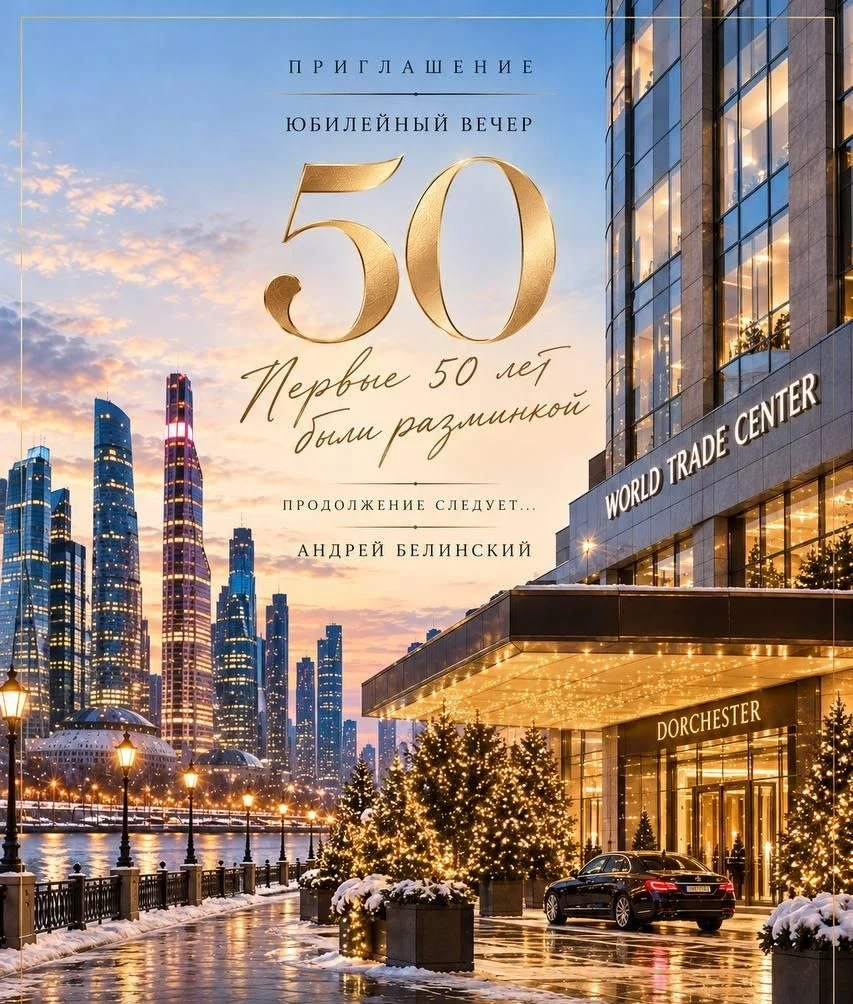
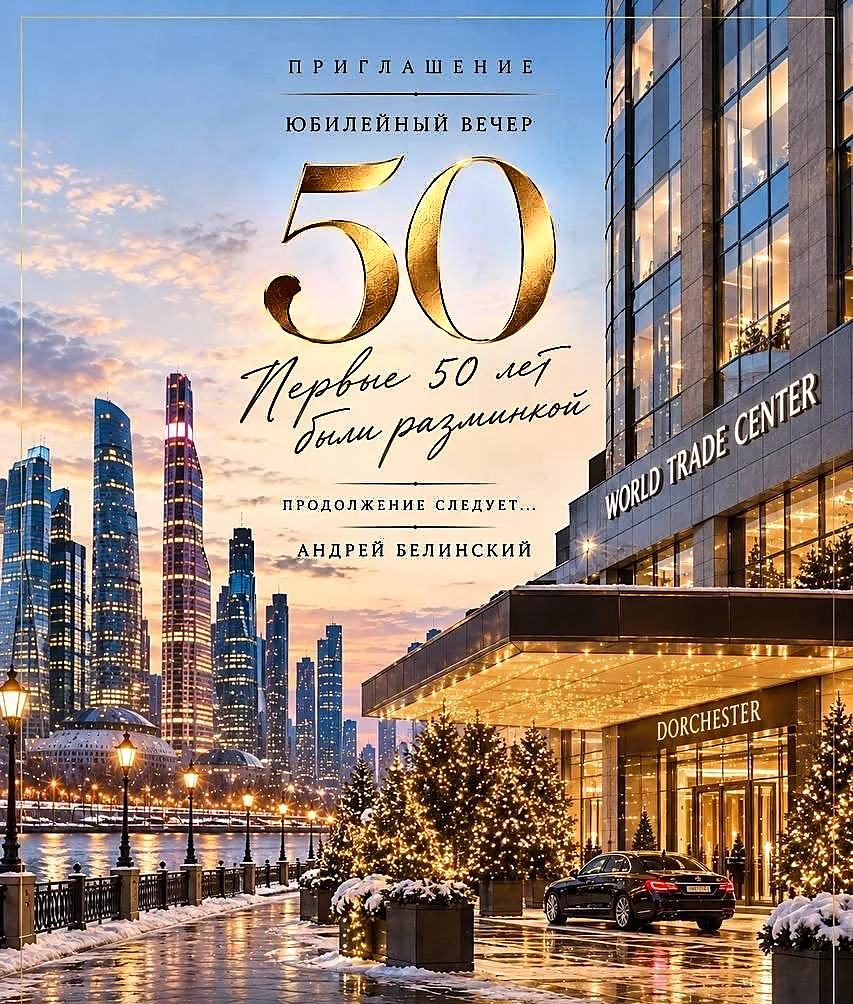
v10: rsvp screens like sample, cover ratio fix, stronger cover text

diff --git a/inv-a50-v8-8j2lv6/index.html b/inv-a50-v8-8j2lv6/index.html
@@ -51,7 +51,7 @@ body.lock #site{visibility:hidden}
 .div::after{transform:scaleX(-1)}
 .div i{width:5px;height:5px;transform:rotate(45deg);background:currentColor}
 .ico{width:34px;height:34px;fill:none;stroke:currentColor;stroke-width:1.3;stroke-linecap:round;stroke-linejoin:round}
-.coverimg{display:block;width:100%;height:auto;aspect-ratio:2/3;background:#2a2036}
+.coverimg{display:block;width:100%;height:auto;aspect-ratio:853/1004;background:#2a2036}
 .sep1{padding:18px 16px 8px}
 .sep1 .btns{display:grid;gap:12px}
 .info{display:grid;grid-template-columns:1fr 1fr 1.15fr;border:1px solid var(--line);background:rgba(18,12,8,.58);-webkit-backdrop-filter:blur(8px);backdrop-filter:blur(8px);padding:14px 4px;margin-bottom:16px}
@@ -184,6 +184,43 @@ p,.d,.n,.t,small,b{overflow-wrap:break-word;text-wrap:pretty}
 .cta p{font-size:22px}
 .cta .note{font-size:23px;line-height:1.35;margin:18px 0 0}
 @media(max-width:359px){body{font-size:20px}.greet p{font-size:21px}.greet h2{font-size:36px}.info b{font-size:22px}.cta .h1{font-size:34px}.card{padding:22px 14px}}
+/* v10: экраны ответа как в образце */
+.rs .rsbg{position:fixed;inset:0;background:linear-gradient(180deg,rgba(10,6,3,.82) 0%,rgba(10,6,3,.6) 45%,rgba(10,6,3,.15) 75%,rgba(10,6,3,.35) 100%),url(img/rsvp-bg.webp) center bottom/cover no-repeat;z-index:0}
+.rs .ovcol{position:relative;z-index:1}
+.rs .ovtop{height:auto;padding:14px 0 0;position:relative;margin-bottom:-28px;z-index:3}
+.rs .back{border-radius:30px;height:48px;padding:0 18px 0 12px;font-weight:600;font-size:19px;letter-spacing:.02em;text-transform:none;border-color:#C9A46A;background:rgba(18,12,8,.55)}
+.rs .panel{background:transparent;border:1px solid rgba(224,190,128,.75);box-shadow:inset 0 0 0 4px rgba(224,190,128,.08);-webkit-backdrop-filter:none;backdrop-filter:none;padding:22px 14px 26px;text-align:center;margin-top:0}
+.rk{font-weight:600;font-size:13px;letter-spacing:.32em;text-transform:uppercase;color:#E8D2A6;padding-left:84px;min-height:24px}
+.rdiv{display:flex;align-items:center;justify-content:center;gap:8px;color:#E0BE80;margin:8px auto}
+.rdiv::before,.rdiv::after{content:"";height:1px;width:90px;background:linear-gradient(90deg,transparent,currentColor)}
+.rdiv::after{transform:scaleX(-1)}.rdiv i{width:6px;height:6px;transform:rotate(45deg);background:currentColor}
+.rt{font-family:"Marck Script",cursive;font-weight:400;font-size:42px;line-height:1.12;margin:6px 0 4px;background:linear-gradient(180deg,#F7DFA8,#D9A960 60%,#F2D196);-webkit-background-clip:text;background-clip:text;-webkit-text-fill-color:transparent;color:transparent}
+.rsub{font-size:21px;line-height:1.35;color:#F6EAD2;margin:4px 0 14px}
+.rsm{font-size:17px;line-height:1.35;color:#E6D5B5;margin:-4px 0 14px}
+.rs .opts{gap:12px;max-width:340px;margin:0 auto}
+.opt2{display:grid;grid-template-columns:56px 1fr 22px;align-items:center;width:100%;min-height:72px;padding:8px 14px 8px 8px;border-radius:12px;border:1px solid rgba(224,190,128,.85);background:rgba(16,10,5,.62);color:#F6EAD2;text-align:left;cursor:pointer;-webkit-appearance:none;appearance:none}
+.opt2 .oi{display:flex;align-items:center;justify-content:center;height:46px;border-right:1px solid rgba(224,190,128,.5);margin-right:14px}
+.opt2 .oi svg{width:34px;height:34px;fill:none;stroke:#E0BE80;stroke-width:1.4;stroke-linecap:round;stroke-linejoin:round}
+.opt2 .ol{font-weight:600;font-size:18px;letter-spacing:.14em;text-transform:uppercase;line-height:1.3}
+.opt2 .chev{width:20px;height:20px;fill:none;stroke:#E0BE80;stroke-width:1.8}
+.opt2.gold{background:linear-gradient(180deg,#F1D396,#C99B55);color:#2a1b0c;border-color:#F3D9A2}
+.opt2.gold .oi svg,.opt2.gold .chev{stroke:#2a1b0c}.opt2.gold .oi{border-color:rgba(42,27,12,.35)}
+.opt2:active,.opt2.on{box-shadow:0 0 0 2px #F3D9A2}
+.rs .drinks{grid-template-columns:1fr 1fr;gap:8px;margin:0 0 16px}
+.rs .dr{display:grid;grid-template-columns:22px 40px 1fr;gap:6px;align-items:center;min-height:76px;padding:4px 8px;border-radius:12px;border:1px solid rgba(224,190,128,.8);background:rgba(16,10,5,.62);font-weight:600;font-size:14px;letter-spacing:.08em;text-transform:uppercase;line-height:1.25;color:#F6EAD2}
+.rs .dr img{width:40px;height:54px;object-fit:contain}
+.rs .dr .bx{width:22px;height:22px;border-radius:6px;border-color:#E0BE80}
+.rs .dr .dl{overflow-wrap:anywhere}
+.btn.pill{border-radius:30px;max-width:260px;margin:0 auto;height:54px}
+.routepill{display:block;margin:22px auto 4px;height:58px;padding:0 28px;border-radius:30px;border:1px solid #C9A46A;background:rgba(18,12,8,.6);color:#F1DDB0;font-weight:500;font-size:21px;cursor:pointer}
+.rs .fld span.lab{text-align:left}.rs .sum{text-align:left;background:rgba(16,10,5,.78);border-radius:10px;font-size:18px}.rs .stack{max-width:340px;margin:18px auto 0}
+.rs input[type=text]{border-radius:10px;font-size:19px}
+.rs .panel{padding:22px 10px 24px}
+.rs .dr{position:relative;grid-template-columns:34px 1fr;gap:8px;padding:6px 8px 6px 6px;font-size:17px;letter-spacing:0;text-transform:none;line-height:1.2}
+.rs .dr img{width:34px;height:50px}
+.rs .dr .bx{position:absolute;top:6px;right:6px;width:18px;height:18px;border-radius:5px}
+.rs .dr .dl{overflow-wrap:normal;word-break:normal;hyphens:none;padding-right:16px}
+@media(max-width:374px){.rt{font-size:36px}.rs .dr{font-size:16px}.opt2 .ol{font-size:16px;letter-spacing:.1em}.rk{padding-left:80px;font-size:12px;letter-spacing:.22em}}
 </style>
 </head>
 <body>
@@ -291,40 +328,33 @@ p,.d,.n,.t,small,b{overflow-wrap:break-word;text-wrap:pretty}
 </main>
 
 <!-- ответ на приглашение -->
-<div class="ov" id="rsvp" hidden>
+<div class="ov rs" id="rsvp" hidden>
+  <div class="rsbg"></div>
   <div class="ovcol">
     <div class="ovtop"><button class="back" type="button" id="backBtn"><svg viewBox="0 0 24 24"><path d="M15 5l-7 7 7 7"/></svg>Назад</button></div>
     <div class="panel">
       <section class="step" id="s-att">
-        <div class="lab">Ваш ответ</div>
-        <div class="h1">Вы придёте?</div>
-        <p class="lead">Выберите подходящий вариант.</p>
+        <div class="rk">Юбилей 50 лет</div><div class="rdiv"><i></i></div><h3 class="rt">Ну что,<br>увидимся 21&nbsp;декабря?</h3><div class="rdiv"><i></i></div><p class="rsub">Буду очень рад видеть вас<br>на моём юбилее!</p>
         <div class="opts">
-          <button class="opt" type="button" data-att="yes">Да, приду</button>
-          <button class="opt" type="button" data-att="maybe">Пока не знаю</button>
-          <button class="opt" type="button" data-att="no">К сожалению, не смогу</button>
+          <button class="opt2 gold" type="button" data-att="yes"><span class="oi"><svg viewBox="0 0 32 32"><path d="M8 4h6l-.5 8a2.5 2.5 0 0 1-5 0zM18 4h6l-.5 8a2.5 2.5 0 0 1-5 0zM11 14.5V26M21 14.5V26M8 27h6M18 27h6"/></svg></span><span class="ol">Конечно,<br>буду!</span><svg class="chev" viewBox="0 0 24 24"><path d="M9 5l7 7-7 7"/></svg></button>
+          <button class="opt2" type="button" data-att="maybe"><span class="oi"><svg viewBox="0 0 32 32"><circle cx="16" cy="16" r="12"/><path d="M12.5 12.5a3.5 3.5 0 1 1 5 3.2c-1 .5-1.5 1.2-1.5 2.3v.5M16 22.5v.5"/></svg></span><span class="ol">Пока<br>под вопросом</span><svg class="chev" viewBox="0 0 24 24"><path d="M9 5l7 7-7 7"/></svg></button>
+          <button class="opt2" type="button" data-att="no"><span class="oi"><svg viewBox="0 0 32 32"><circle cx="16" cy="16" r="12"/><path d="M11.5 11.5l9 9M20.5 11.5l-9 9"/></svg></span><span class="ol">К сожалению,<br>не смогу</span><svg class="chev" viewBox="0 0 24 24"><path d="M9 5l7 7-7 7"/></svg></button>
         </div>
       </section>
       <section class="step" id="s-count">
-        <div class="lab">Гости</div>
-        <div class="h1">Сколько вас будет?</div>
-        <p class="lead">Выберите подходящий вариант.</p>
+        <div class="rk">Юбилей 50 лет</div><div class="rdiv"><i></i></div><h3 class="rt">Сколько<br>будет гостей?</h3><div class="rdiv"><i></i></div><p class="rsub">Пожалуйста, выберите,<br>сколько человек будет от вас.</p>
         <div class="opts">
-          <button class="opt" type="button" data-count="1">Один</button>
-          <button class="opt" type="button" data-count="2">Вдвоём</button>
+          <button class="opt2" type="button" data-count="1"><span class="oi"><svg viewBox="0 0 32 32"><circle cx="16" cy="11" r="5"/><path d="M6 27c0-5.5 4.5-9 10-9s10 3.5 10 9z"/></svg></span><span class="ol">Буду<br>один</span><svg class="chev" viewBox="0 0 24 24"><path d="M9 5l7 7-7 7"/></svg></button>
+          <button class="opt2" type="button" data-count="2"><span class="oi"><svg viewBox="0 0 32 32"><circle cx="12" cy="11" r="4.5"/><path d="M3 27c0-5 4-8 9-8s9 3 9 8z"/><circle cx="22" cy="12" r="3.8"/><path d="M21 19.5c4.5-.3 8 2.300 8 7.500h-6"/></svg></span><span class="ol">Будем<br>вдвоём</span><svg class="chev" viewBox="0 0 24 24"><path d="M9 5l7 7-7 7"/></svg></button>
         </div>
       </section>
       <section class="step" id="s-drinks">
-        <div class="lab">Напитки</div>
-        <div class="h1">Что вы предпочитаете?</div>
-        <p class="lead">Можно выбрать несколько вариантов.</p>
+        <div class="rk">Юбилей 50 лет</div><div class="rdiv"><i></i></div><h3 class="rt">Какие напитки<br>предпочитаете?</h3><div class="rdiv"><i></i></div><p class="rsub">Помогите мне подготовиться<br>к нашему вечеру!</p><p class="rsm">Выберите любимые напитки — можно отметить несколько вариантов.</p>
         <div class="drinks" id="drinks"></div>
-        <button class="btn" type="button" id="drinksNext">Далее</button>
+        <button class="btn pill" type="button" id="drinksNext">Продолжить&nbsp;→</button>
       </section>
       <section class="step" id="s-form">
-        <div class="lab">Последний шаг</div>
-        <div class="h1">Почти готово!</div>
-        <p class="lead">Укажите, как вас зовут, и проверьте ответ.</p>
+        <div class="rk">Юбилей 50 лет</div><div class="rdiv"><i></i></div><h3 class="rt">Почти готово!</h3><div class="rdiv"><i></i></div><p class="rsub">Укажите, как вас зовут,<br>и проверьте ответ.</p>
         <label class="fld"><span class="lab">Имя</span><input type="text" id="first" autocomplete="given-name" maxlength="60" placeholder="Имя"></label>
         <label class="fld"><span class="lab">Фамилия</span><input type="text" id="last" autocomplete="family-name" maxlength="60" placeholder="Фамилия"></label>
         <input class="hp" type="text" id="website" tabindex="-1" autocomplete="off" aria-hidden="true">
@@ -333,10 +363,10 @@ p,.d,.n,.t,small,b{overflow-wrap:break-word;text-wrap:pretty}
         <button class="btn" type="button" id="send">Отправить ответ</button>
       </section>
       <section class="step" id="s-thanks">
-        <div class="lab" id="thLab">Ответ</div>
-        <div class="h1" id="thH">Спасибо!</div>
+        <div class="rk" id="thLab">Ответ</div><div class="rdiv"><i></i></div>
+        <h3 class="rt" id="thH">Спасибо!</h3>
         <div class="tag" id="demoTag" hidden>демо</div>
-        <p class="lead" id="thP"></p>
+        <p class="rsub" id="thP"></p>
         <div class="stack">
           <button class="btn" type="button" id="thRetry" hidden>Отправить ещё раз</button>
           <button class="btn" type="button" id="thCal">Добавить в календарь</button>
@@ -373,15 +403,16 @@ p,.d,.n,.t,small,b{overflow-wrap:break-word;text-wrap:pretty}
 (function(){
 var CFG=window.INVITE_CONFIG||{},TX=CFG.TEXT||{};
 var $=function(id){return document.getElementById(id)};
+var DIMG=['champ','white','red','whisky','cognac','gin','vodka','none'];
 var DRINKS=['Шампанское / игристое','Белое вино','Красное вино','Виски','Коньяк','Джин','Водка','Алкоголь не пью'];
 var NONE='Алкоголь не пью';
-var ATT_LABEL={yes:'Да, приду',maybe:'Пока не знаю',no:'К сожалению, не смогу'};
+var ATT_LABEL={yes:'Конечно, буду!',maybe:'Пока под вопросом',no:'К сожалению, не смогу'};
 var state={attend:'',count:1,drinks:[]};
 var lastAnswer=null,stack=[],scrollY0=0;
 
 /* --- напитки --- */
-(function(){var g=$('drinks');DRINKS.forEach(function(l,i){var b=document.createElement('button');b.type='button';b.className='dr'+(i===DRINKS.length-1?' wide':'');b.setAttribute('aria-pressed','false');
- b.innerHTML='<span class="bx"><svg viewBox="0 0 16 16"><path d="M3 8.500l3.200 3.200L13 4.500"/></svg></span><span></span>';b.lastChild.textContent=l;b.onclick=function(){toggle(l)};g.appendChild(b)})})();
+(function(){var g=$('drinks');DRINKS.forEach(function(l,i){var b=document.createElement('button');b.type='button';b.className='dr';b.setAttribute('aria-pressed','false');
+ b.innerHTML='<span class="bx"><svg viewBox="0 0 16 16"><path d="M3 8.500l3.200 3.200L13 4.500"/></svg></span><img alt="" width="105" height="140" src="img/d-'+DIMG[i]+'.webp"><span class="dl"></span>';b.lastChild.textContent=l;b.onclick=function(){toggle(l)};g.appendChild(b)})})();
 function toggle(l){var d=state.drinks;if(l===NONE){state.drinks=d.indexOf(NONE)>=0?[]:[NONE]}else{d=d.filter(function(x){return x!==NONE});state.drinks=d.indexOf(l)>=0?d.filter(function(x){return x!==l}):d.concat(l)}paint()}
 function paint(){[].forEach.call($('drinks').children,function(b,i){var on=state.drinks.indexOf(DRINKS[i])>=0;b.classList.toggle('on',on);b.setAttribute('aria-pressed',on)})}
 
@@ -394,8 +425,8 @@ function lockOn(){if(!document.body.classList.contains('lock')){scrollY0=window.
 function lockOff(){document.body.classList.remove('lock');window.scrollTo(0,scrollY0)}
 function showStep(n){['att','count','drinks','form','thanks'].forEach(function(s){$('s-'+s).classList.toggle('on',s===n)});$('rsvp').scrollTop=0;
  if(n==='form')fillForm();
- [].forEach.call(document.querySelectorAll('#s-count .opt'),function(b){b.classList.toggle('on',Number(b.dataset.count)===state.count)});
- [].forEach.call(document.querySelectorAll('#s-att .opt'),function(b){b.classList.toggle('on',b.dataset.att===state.attend)})}
+ [].forEach.call(document.querySelectorAll('#s-count .opt2'),function(b){b.classList.toggle('on',Number(b.dataset.count)===state.count)});
+ [].forEach.call(document.querySelectorAll('#s-att .opt2'),function(b){b.classList.toggle('on',b.dataset.att===state.attend)})}
 function go(n){stack.push(n);showStep(n)}
 function openRsvp(){lockOn();$('route').hidden=true;$('rsvp').hidden=false;stack=[];go('att')}
 function closeOv(){$('rsvp').hidden=true;$('route').hidden=true;lockOff()}
